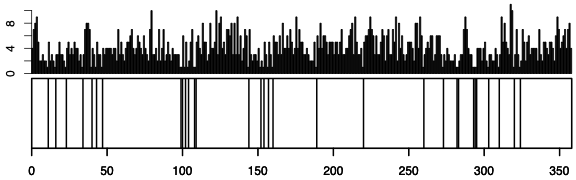
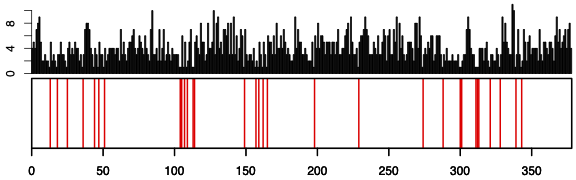
Initial commit

diff --git a/README.md b/README.md
@@ -7,16 +7,20 @@ The sequence-structure-function paradigm follows that a protein’s primary sequ
 
 `ConPosER` includes two functions:
 1. `conposer_id()`: Takes input AA sequences, and outputs list of 100% conserved positions and the residue observed there.
-2. `conposer_plot()`: Plots the 100% conserved positions on 2D gene map. Calls a sub-function `conposer_geneplot()` which includes the formatting for the geneplots.
+2. `conposer_plot()`: Plots the 100% conserved positions on 2D gene map, plus a barplot of the number of AAs observed at each position. Calls a sub-function `conposer_geneplot()` which includes the formatting for the geneplot.
 
 # Content
-
 
 ## Install
 
 Install directly from GitHub:
 ```r
 source("https://raw.github.com/kevinsblake/ConPosER/main/ConPosE.R")
+```
+
+Alternatively, can download and then install using the filepath:
+```r
+source("dir1/dir2/pathotype.R")
 ```
 
 ## Functions
@@ -32,46 +36,70 @@ Function to list each conserved position and the amino acid at that positions.
 ```r
 library(Biostrings)
 library(msa)
+library(dplyr)
 
-seqs.file <- readAAStringSet("data/sequences/sequences.fasta")
-
-conposer_id(seqs.file, msa=c("ClustalW", "ClustalOmega", "Muscle"))
+conposer_id(seqs.file="sequences.fasta", msa=c("ClustalW", "ClustalOmega", "Muscle"), gap.lim=0.30)
 ```
 
 #### Arguments
 
-`seqs.file`	Path and filename fasta file containing input sequences
+`seqs.file`	Filepath to fasta file containing input sequences.
 
-`msa`	Specifies the multiple sequence alignment algorithm used to align the input sequences.
+`msa`		Specifies the multiple sequence alignment algorithm used to align the input sequences.
+
+`gap.lim`	Specifies the fraction of sequences that can have a gap at a given position. Columns with gaps greater than this fraction are ignored. (Default = 0.30) 	
 
 #### Examples
+
+```
+> df <- conposer_id("sequences.fasta", msa="ClustalOmega")
+using Gonnet
+> head(df)
+  pos AA
+1  39  G
+2  44  G
+3  51  L
+4  62  E
+5  70  R
+6  73  G
+```
 
 ### `conposer_plot()`
 
 #### Description
 
-Function for generating a gene plot of the MSA, indicating the positions of the conserved positions in 2D space.
+Function for generating a gene plot of the MSA indicating the locations of the conserved positions, plus a barplot of the number of AAs observed at each position.
 
 #### Usage
 
 ```r
 library(Biostrings)
 library(msa)
+library(dplyr)
 
-seqs.file <- readAAStringSet("data/sequences/sequences.fasta")
-
-conposer_plot(seqs.file, filename="geneplot.pdf", linecol="black", isFilter=FALSE)
-
+conposer_plot(seqs.file="sequences.fasta", filename="geneplot.pdf", linecol="black", gap.lim=0.30)
 ```
 
 #### Arguments
 
-`seqs.file`	Path and filename of fasta file containing input sequences
+`seqs.file`	Path and filename of fasta file containing input sequences.
+
 `filename`	Path and filename of output geneplot. Default is "geneplot.pdf"
-`linecol`	Color of lines indicating conserved positions. Default is "black"
-`isFilter`	Specifies if positions with gaps in >5% of the sequences in the alignment are masked. Masking these positions can avoid spuriously calling a conserved position that is really a gap in most sequences. Default = FALSE, which shows every position.
+
+`linecol`	Color of lines indicating conserved positions. Default is "black."
+
+`gap.lim`	Specifies the fraction of sequences that can have a gap at a given position. Columns with gaps greater than this fraction are ignored. (Default = 0.30) 
 
 #### Examples
+
+```r
+> conposer_plot(seqs.file="sequences.fasta", filename="geneplot.pdf", linecol="blue")
+using Gonnet
+pdf 
+  2
+```
+
+![Ex1](https://github.com/kevinsblake/ConPosER/blob/main/photos/example_01.png)
 
 ## References
 
